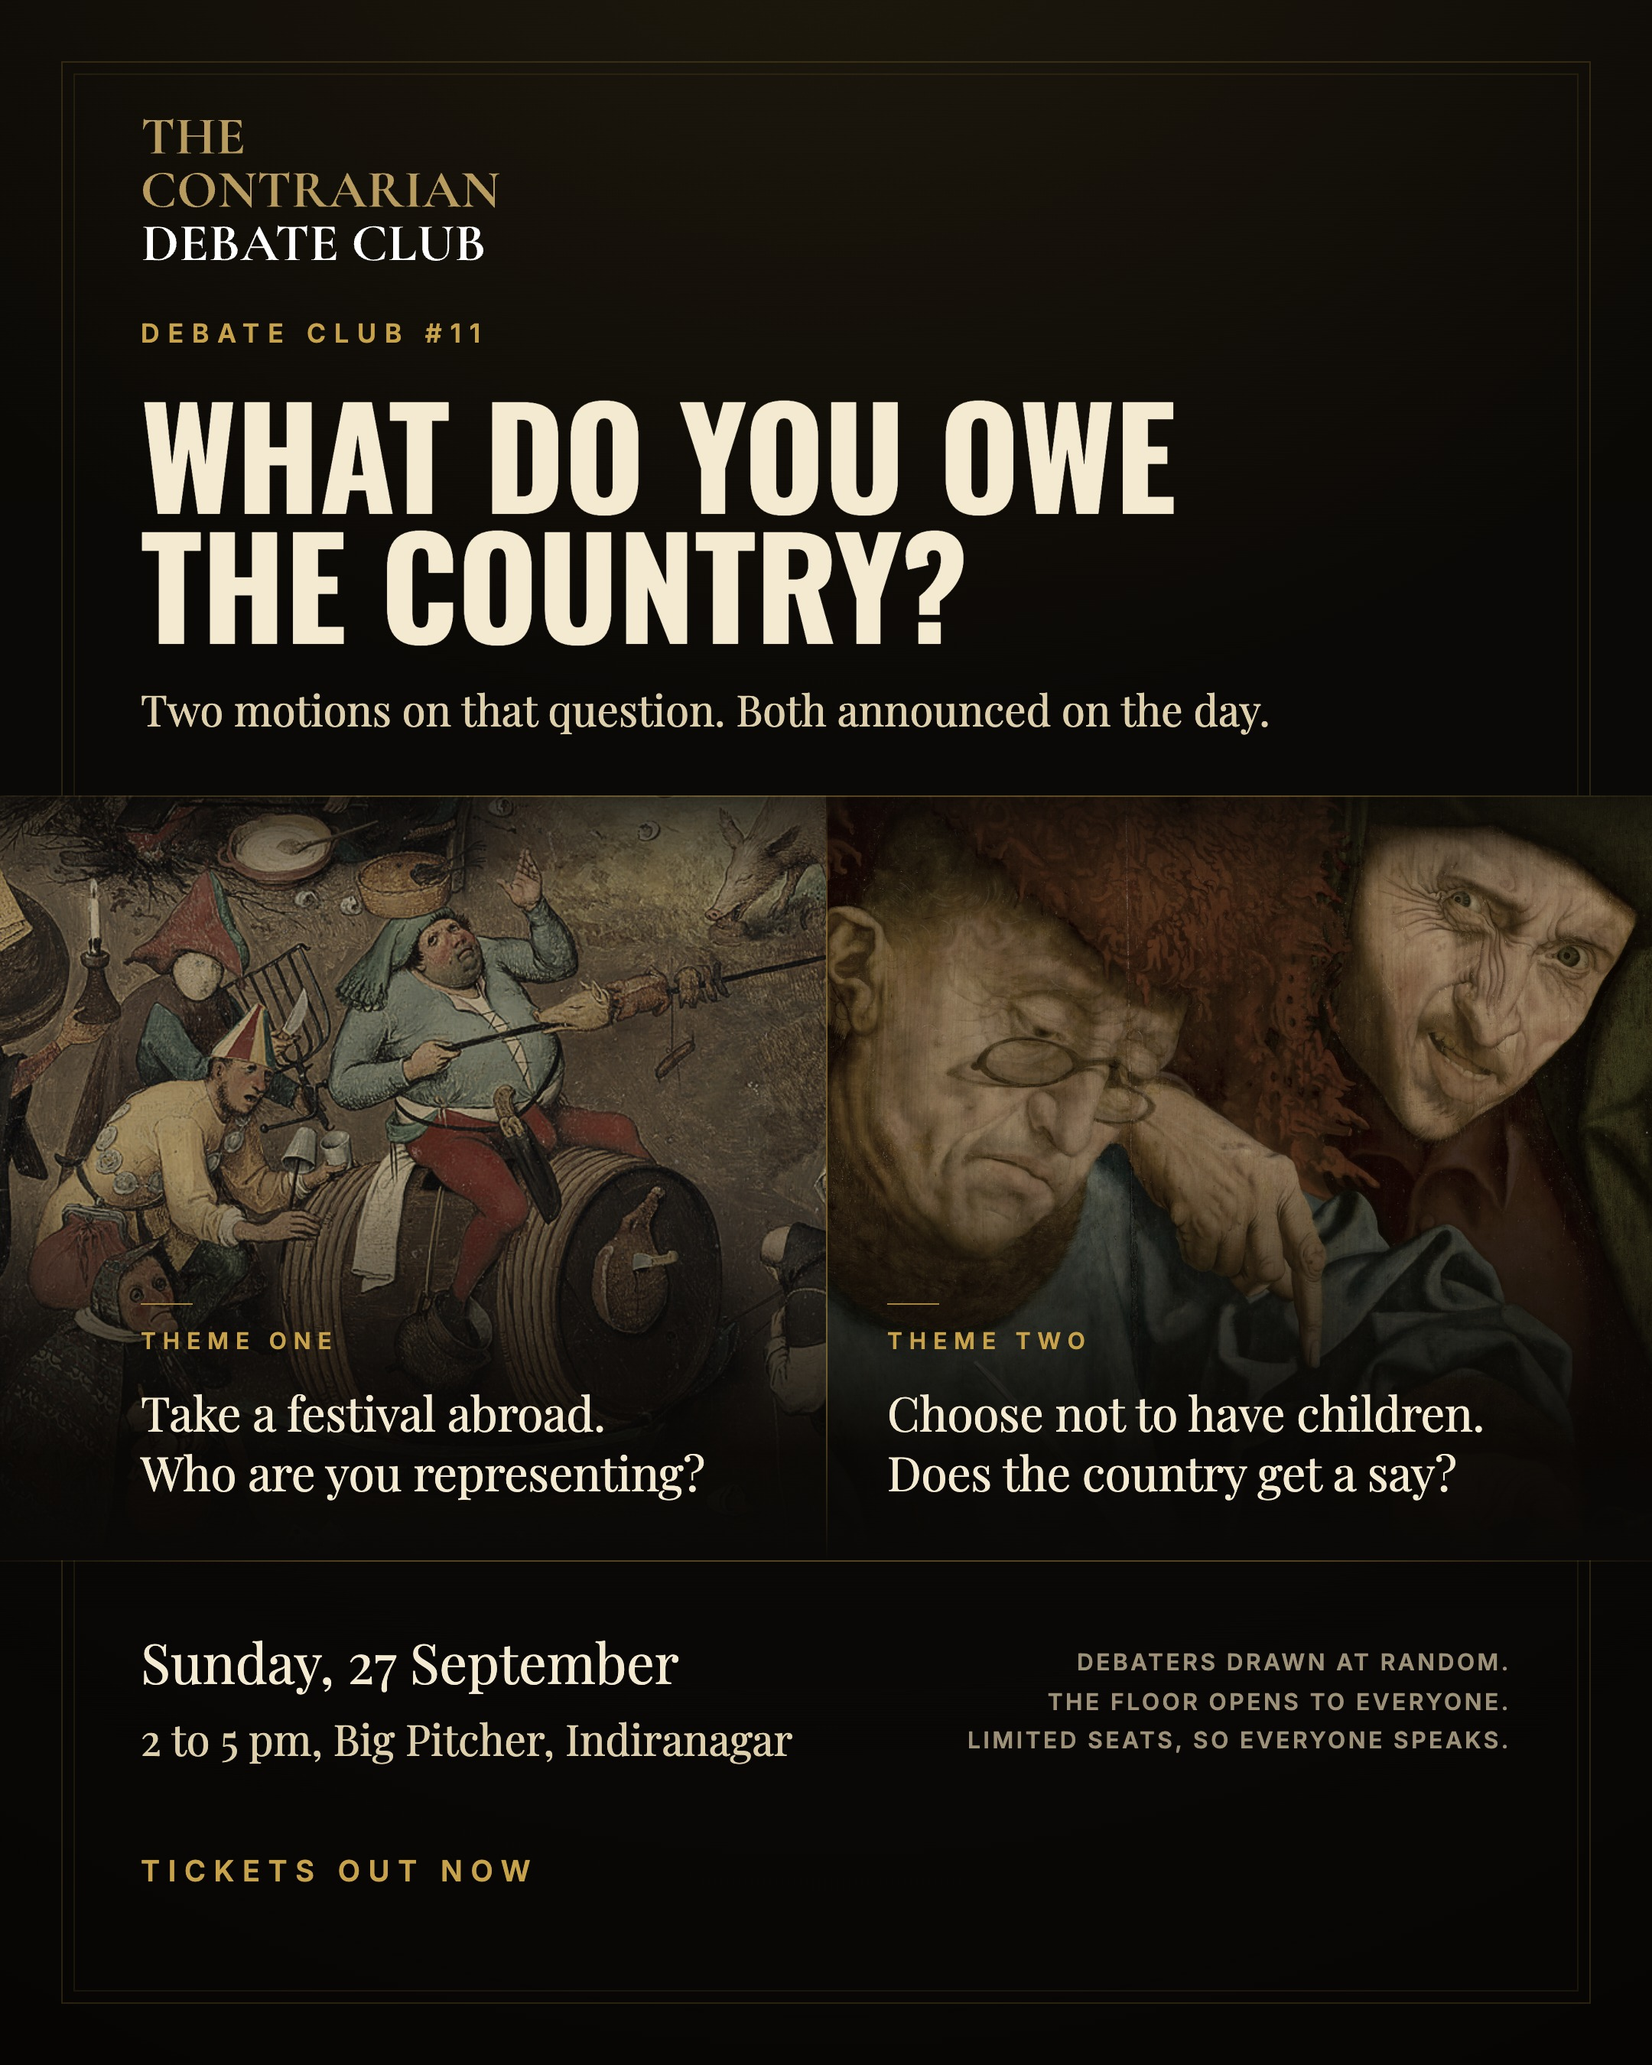
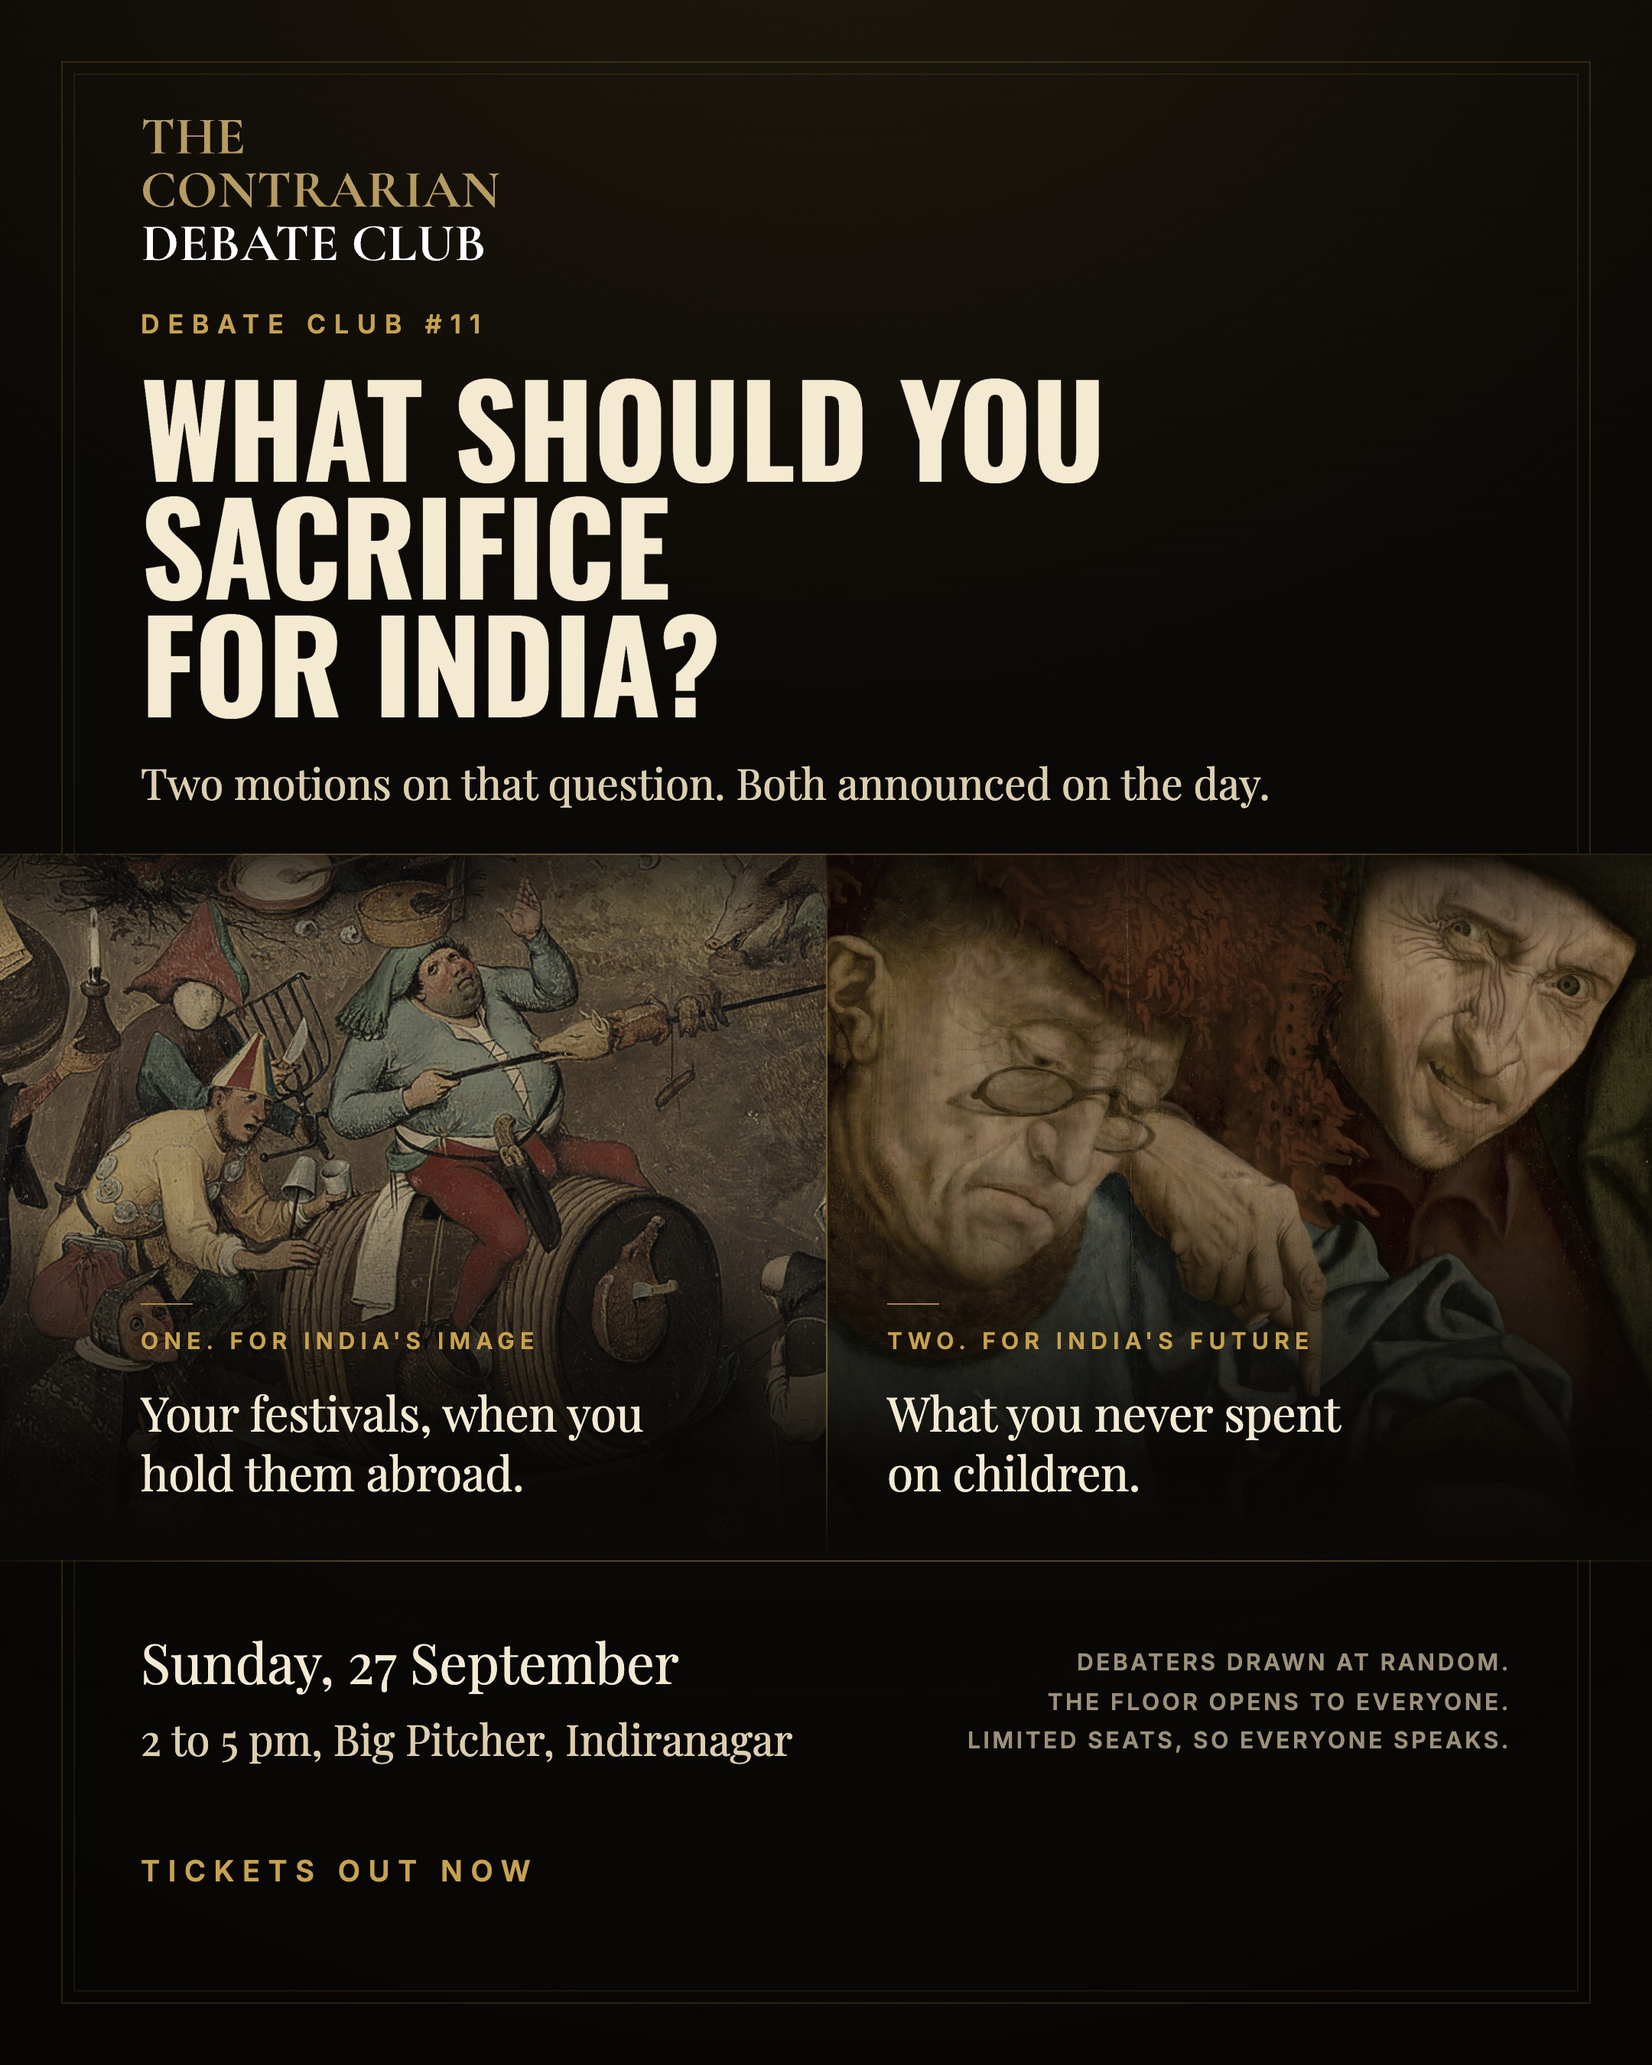
fix(posters): recentre Debate #11 on sacrifice, and let the panels answer
"What do you owe the country" stated the debt abstractly. The first motion
already has the right word in it, so the headline asks what you should
sacrifice for India and each panel answers with what that motion would
actually take: your festivals when you hold them abroad, and what you never
spent on children.

Each panel's gold label now carries what the sacrifice is for, India's image
and India's future, which is the only place the poster states the case for
the motions and puts it in the smallest type on the page.

Changed region(s): [[0.0, 0.1556, 1.0, 0.7467], [0.9616, 0.5289, 0.9926, 0.5911]]

diff --git a/posters/works/2026-09-27-debate-11-what-you-owe/slides.tsx b/posters/works/2026-09-27-debate-11-what-you-owe/slides.tsx
@@ -12,9 +12,13 @@ import "./slides.css";
 // Both motions are the same question in different clothes. One asks a diaspora
 // to give up a public celebration to protect the country's reputation; the
 // other asks a childfree adult to give up money to fix its birth rate. Neither
-// is about festivals or about tax. Both are about what the collective may ask
-// of a private life, so the poster asks that out loud and hangs the two
-// instances underneath it.
+// is about festivals or about tax. Both are about what the country may ask a
+// private life to give up, so the poster asks that out loud and hangs the two
+// answers underneath it.
+//
+// "Sacrifice" rather than "owe", because the word is in the first motion and
+// because it normally means dying in a war. Here the country wants a quieter
+// festival and a tax bracket, and that deflation is the piece's only joke.
 //
 // A DIPTYCH, BECAUSE THE NIGHT IS ONE ARGUMENT IN TWO CASES. Two panels, one
 // band, a gold seam down the middle. Read as a pair they say "two motions, one
@@ -25,14 +29,22 @@ import "./slides.css";
 // THE PICTURES CARRY WHAT THE COPY WITHHOLDS. Bruegel gives a town celebrating
 // in the open, in front of everyone, with the disapproving half of the same
 // square watching. Reymerswaele gives two clerks, a ledger and a heap of
-// coins, one of them looking straight out at the reader. The questions never
-// say festival, and never say tax; the paintings do it for them, which is what
+// coins, one of them looking straight out at the reader. Neither answer says
+// who is watching, and neither says tax; the paintings do that, which is what
 // keeps the motions unspent while the themes are genuinely on the page.
 //
-// THE QUESTIONS ARE THE THEMES, PHRASED AS QUESTIONS RATHER THAN SUBJECTS.
-// "Diaspora and national image" is a syllabus entry and nobody argues with a
-// syllabus. Both panels open on "If you", because the thing being decided in
-// the room is what the country may ask of the person reading the poster.
+// THE HEADLINE ASKS AND THE PANELS ANSWER, so the whole poster is one
+// sentence: what should you sacrifice for India, your festivals abroad, and
+// what you never spent on children. Both answers are noun phrases opening on a
+// possessive, because the point of the night is that these are yours until
+// somebody argues they are not. A subject line ("diaspora and national image")
+// would be a syllabus entry, and nobody argues with a syllabus.
+//
+// EACH PANEL'S LABEL CARRIES WHAT THE SACRIFICE IS FOR, and the big line
+// carries what it costs. "For India's image" over the festivals, "For India's
+// future" over the money. That is the only place the poster states the case
+// for the motions, it states it in six words, and it puts the national good
+// in the smallest type on the page, which is the club's opinion of it.
 //
 // TYPE DOES THREE JOBS. Oswald condensed caps shouts once, for the question
 // both motions sit under. Playfair does all the talking: the two themes, and
@@ -78,14 +90,17 @@ export interface Crop {
   scale: number;
 }
 
-/** One theme: the picture it is argued on, and the question that is as much
- *  of it as anybody gets before the room. Line breaks are copy here, as
- *  everywhere in this repo, and they go at phrase boundaries. */
+/** One theme: what the sacrifice is for, the picture it is argued on, and the
+ *  thing being asked for, which is as much of the motion as anybody gets
+ *  before the room. Line breaks are copy here, as everywhere in this repo, and
+ *  they go at phrase boundaries. */
 export interface Theme {
+  /** what this sacrifice would be for, small and gold */
   label: string;
   plate: Plate;
   crop: Crop;
-  question: string[];
+  /** what it would cost, answering the headline */
+  answer: string[];
 }
 
 export interface Copy {
@@ -118,7 +133,7 @@ interface Metrics {
   bandTop: number;
   bandH: number;
   labelSize: number;
-  questionSize: number;
+  answerSize: number;
   whenTop: number;
   whenSize: number;
   whereSize: number;
@@ -134,16 +149,16 @@ interface Metrics {
 const PORTRAIT: Metrics = {
   lockupTop: 76,
   lockupW: 236,
-  kickerTop: 208,
+  kickerTop: 202,
   kickerSize: 17,
-  heroTop: 254,
-  heroSize: 90,
-  oneLinerTop: 446,
+  heroTop: 240,
+  heroSize: 82,
+  oneLinerTop: 494,
   oneLinerSize: 28,
-  bandTop: 520,
-  bandH: 500,
+  bandTop: 558,
+  bandH: 462,
   labelSize: 15,
-  questionSize: 31,
+  answerSize: 31,
   whenTop: 1066,
   whenSize: 36,
   whereSize: 28,
@@ -159,20 +174,20 @@ const STORY: Metrics = {
   lockupW: 268,
   kickerTop: 296,
   kickerSize: 19,
-  heroTop: 350,
-  heroSize: 104,
-  oneLinerTop: 586,
+  heroTop: 346,
+  heroSize: 96,
+  oneLinerTop: 634,
   oneLinerSize: 32,
-  bandTop: 686,
-  bandH: 700,
+  bandTop: 726,
+  bandH: 664,
   labelSize: 16,
-  questionSize: 31,
-  whenTop: 1440,
+  answerSize: 31,
+  whenTop: 1452,
   whenSize: 42,
   whereSize: 32,
-  ctaTop: 1762,
+  ctaTop: 1770,
   ctaSize: 21,
-  formatTop: 1612,
+  formatTop: 1620,
   formatSize: 17,
   formatRight: false,
 };
@@ -258,11 +273,11 @@ function Panel({
         <div className="wo-tick" />
         <div
           className="kicker"
-          style={{ fontSize: m.labelSize, letterSpacing: "0.3em", marginTop: 14 }}
+          style={{ fontSize: m.labelSize, letterSpacing: "0.24em", marginTop: 14 }}
         >
           {theme.label}
         </div>
-        {theme.question.map((line, i) => (
+        {theme.answer.map((line, i) => (
           <p
             key={i}
             style={{
@@ -270,7 +285,7 @@ function Panel({
               marginTop: i === 0 ? 18 : 0,
               fontFamily: "var(--cc-font-display)",
               fontWeight: 400,
-              fontSize: m.questionSize,
+              fontSize: m.answerSize,
               lineHeight: 1.26,
               letterSpacing: "-0.005em",
               color: "var(--cc-ivory)",

diff --git a/posters/works/2026-09-27-debate-11-what-you-owe/spec.tsx b/posters/works/2026-09-27-debate-11-what-you-owe/spec.tsx
@@ -12,8 +12,8 @@ import { type Plate, Poster } from "./slides";
 // the handout and the recap unchanged.
 //
 // The reasoning behind the composition is in slides.tsx. The short version:
-// both motions are the same question, so the poster asks the question and
-// hangs the two instances of it underneath as a diptych.
+// both motions ask the same thing, so the headline asks it, and the two panels
+// answer it with what each motion would actually take.
 //
 // The held back motions, for whoever writes the handout:
 //
@@ -48,24 +48,24 @@ const work: WorkSpec = {
           format={format}
           copy={{
             kicker: "Debate Club #11",
-            hero: ["What do you owe", "the country?"],
+            hero: ["What should you", "sacrifice", "for India?"],
             oneLiner: "Two motions on that question. Both announced on the day.",
             themes: [
               {
-                label: "Theme One",
+                label: "One. For India's image",
                 plate: carnival,
                 // the carnival half of the square: the barrel, the pie hat and
                 // the musicians, with the crowd still reading as a crowd
                 crop: { x: 0.37, y: 0.775, scale: 4.4 },
-                question: ["Take a festival abroad.", "Who are you representing?"],
+                answer: ["Your festivals, when you", "hold them abroad."],
               },
               {
-                label: "Theme Two",
+                label: "Two. For India's future",
                 plate: collectors,
                 // both faces and the ledger, with the coins left under the
                 // scrim where they are a suggestion rather than the subject
                 crop: { x: 0.5, y: 0.52, scale: 1.64 },
-                question: ["Choose not to have children.", "Does the country get a say?"],
+                answer: ["What you never spent", "on children."],
               },
             ],
             when: "Sunday, 27 September",

diff --git a/posters/works/2026-09-27-debate-11-what-you-owe/copy.md b/posters/works/2026-09-27-debate-11-what-you-owe/copy.md
@@ -8,31 +8,40 @@ the themes and holds both motions back until the room, so the listing and the
 caption carry more weight than usual: they are the only places a reader gets
 more than two sentences about what the night is.
 
+## The frame
+
+The theme is sacrifice, because the word is in the first motion and because
+both motions are the same demand: the country wants something a private person
+would rather keep. One wants a quieter festival, for India's image. The other
+wants money, for India's future. The phrase normally means dying in a war, and
+here it means a tax bracket, which is the joke and should not be explained
+anywhere it appears.
+
 ## Listing title
 
-**The Contrarian Debate Club #11: What Do You Owe The Country?**
+**The Contrarian Debate Club #11: What Should You Sacrifice For India?**
 
 Alternates:
 
-- Debate Club #11: What Do You Owe The Country?
-- Debate Club #11: Private Lives, National Interest
+- Debate Club #11: What Should You Sacrifice For India?
+- Debate Club #11: What Is India Allowed To Ask Of You?
 - Debate Club #11: Two Motions, Announced On The Day
 
-The first is the recommendation, and the ordering is the same as #9's: the
-edition number does the returning-crowd work, the question does the selling,
-and "Debate Club" is the phrase someone is actually searching for. Use the
-short second form anywhere the organiser name is already shown next to the
-title. The fourth is the one to switch to if sales are slow and the
-withholding needs to become the hook.
+The first is the recommendation, and the ordering follows #9's: the edition
+number does the returning-crowd work, the question does the selling, and
+"Debate Club" is the phrase someone is actually searching for. Use the short
+second form anywhere the organiser name already shows next to the title. The
+last is the one to switch to if sales are slow and the withholding needs to
+become the hook.
 
 ## Description
 
 > The Contrarian Debate Club returns for its eleventh edition.
 >
-> The theme is what the country is allowed to ask of you. Two motions sit
-> under that question. One is about Indians abroad and the image they carry
-> home. The other is about choosing not to have children, and who ends up
-> paying for that choice.
+> The question is what you should give up for your country. Two motions sit
+> under it. One is about Indians celebrating in public abroad, and the image
+> that gets carried home. The other is about choosing not to have children,
+> and what that choice costs everybody else.
 >
 > Both motions are announced on the day. Nobody sees them in advance, so
 > nobody turns up with a prepared case, and a first timer stands on the same
@@ -52,20 +61,20 @@ withholding needs to become the hook.
 
 For anywhere with a character limit.
 
-> Two motions on what the country is allowed to ask of you: Indians
-> celebrating abroad, and choosing not to have children. Both announced on the
-> day, so nobody arrives with a prepared case. Debaters drawn at random, then
-> the floor opens to everyone.
+> Two motions on what you should sacrifice for India: your festivals when you
+> hold them abroad, and what you never spent on children. Both announced on
+> the day, so nobody arrives with a prepared case. Debaters drawn at random,
+> then the floor opens to everyone.
 
 ## Caption
 
 For the poster post.
 
-> Debate Club #11. What do you owe the country?
+> Debate Club #11. What should you sacrifice for India?
 >
-> Two motions sit under that question. One on taking a festival abroad and
-> whose name you are carrying when you do. One on choosing not to have
-> children, and whether that is anybody's business but yours.
+> Two motions sit under that question. One asks what your celebrations abroad
+> cost the country's image. One asks what your decision not to have children
+> costs its future.
 >
 > You get the themes now. You get the motions in the room, at the same moment
 > as everyone else.
@@ -91,11 +100,23 @@ a slogan. That rule is not suspended by this poster, it simply does not apply:
 the poster prints themes instead of motions. When these two reach the handout,
 the ticket page after the night, or a recap, they go in word for word.
 
+Note the asymmetry when writing anything else for this night. The first motion
+asks for a sacrifice, freely made. The second does not ask: it imposes. The
+poster holds them together under one word by reading the tax as what you pay
+for the sacrifice you declined, which is fair to both, but a longer piece
+should say the difference out loud rather than smooth it over. It is the most
+interesting thing about the pairing.
+
 ## Open questions
 
 - **Tickets.** The poster says "Tickets out now". If the link is not live when
   this posts, change it to "Tickets open Thursday" or similar rather than
   leaving it as is.
+- **How much theme two gives away.** "What you never spent on children" says
+  the argument is about money without naming the mechanism. The sharper line,
+  "Your money, if you choose not to have children", was passed over as too
+  close to the motion. If the softer line reads as vague in the feed, that is
+  the one to switch to.
 - **Format detail.** The poster says debaters are drawn at random and the
   floor opens afterwards, which is what is settled. If #11 runs the Open Floor
   mechanics (two teams, fifteen minutes to prepare, statements then rebuttals),
